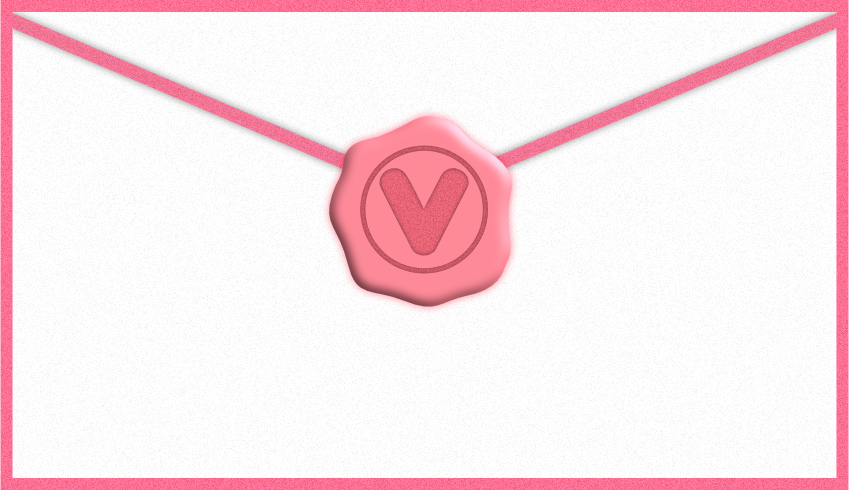
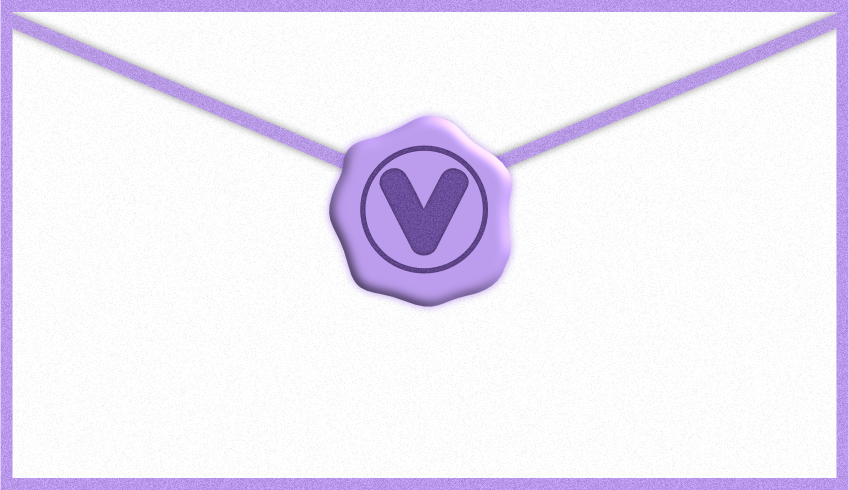
change assets for reward

Changed region(s): [[0.0, 0.0, 1.0, 1.0]]

diff --git a/web/src/routes/staff/reward/index.tsx b/web/src/routes/staff/reward/index.tsx
@@ -14,12 +14,14 @@ function RewardPage() {
       <ButtonLink href="/staff/reward/standard" bg="success-orange">
         Standard
       </ButtonLink>
-      <p className="pt-2 text-gray-600">Rally à 10 tampons, 1 à 3 cartes</p>
+      <p className="pt-2 text-gray-600">
+        Rally à 10 tampons, 1 à 2 cartes ou 1 carte holo
+      </p>
       <ButtonLink href="/staff/reward/premium" bg="tertiary">
         Premium
       </ButtonLink>
       <p className="pt-2 text-gray-600">
-        Rally à 16 tampons, 0 à 3 cartes ou 1 carte holo
+        Rally à 16 tampons, 0 à 5 cartes ou 1 à 2 cartes holo
       </p>
     </>
   );